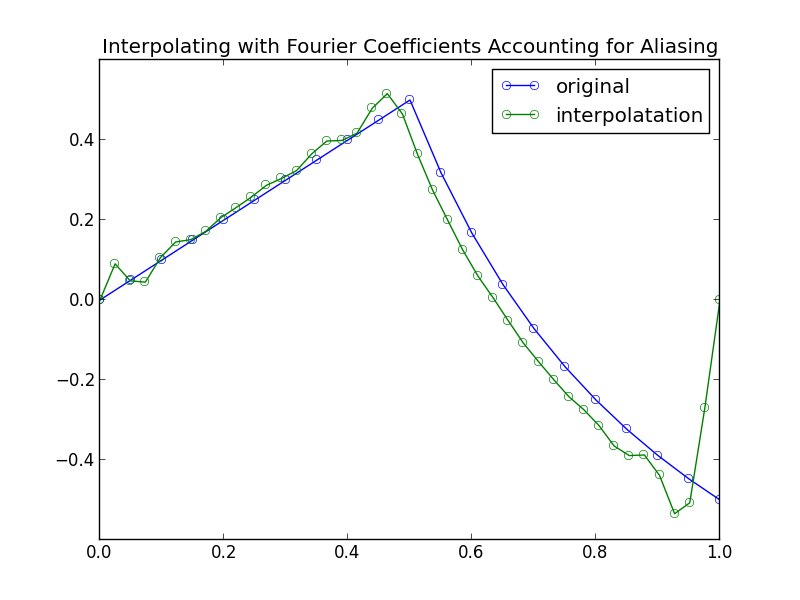
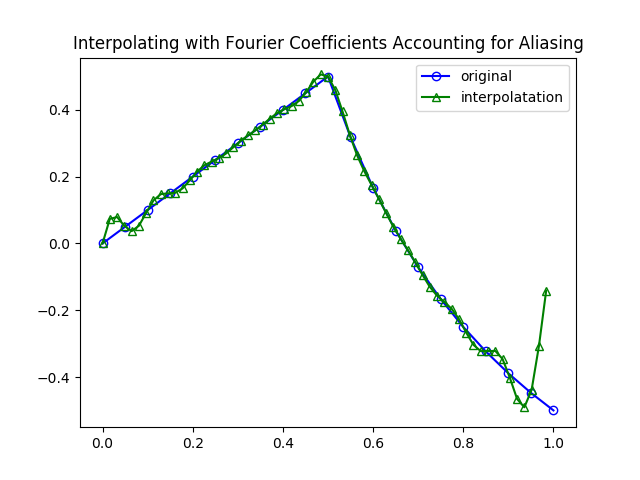
fix Fourier interp post

diff --git a/scripts/int_fourier.py b/scripts/int_fourier.py
@@ -42,9 +42,9 @@ def my_correct_slow_ifft_interp(F,t):
     N = len(F)
     f = zeros(len(t), dtype=complex)
     for n in range(len(t)):
-        for k in range(N/2):
+        for k in range(int(N/2)):
             f[n] += F[k]*e**(2.0*pi*i*k*t[n])
-        for k in range(N/2,N):
+        for k in range(int(N/2),N):
             f[n] += F[k]*e**(-2.0*pi*i*(N-k)*t[n])
     return (1.0/N)*f
     
@@ -52,10 +52,12 @@ if __name__ == "__main__":
     # Sample measurements
     ts = linspace(0,1,num=21)
     f = zeros(len(ts))
-    f[0:len(ts)/2] = ts[0:len(ts)/2]
-    # f[len(ts)/2:] = e**-ts[len(ts)/2:] + 0.5 - e**-0.5
-    f[len(ts)/2:] = 1.0/ts[len(ts)/2:] - 1.5
-#     f = ts*(ts-1)
+    hf = int(len(ts)/2)
+    f[0:hf] = ts[0:hf]
+    #f[hf:] = e**-ts[hf:] + 0.5 - e**-0.5
+    f[hf:] = 1.0/ts[hf:] - 1.5
+    #f = ts*(ts-1)
+    #f = sin(ts*(2.*pi)) + cos(ts*(2.*pi))#-1.0*ts**2#exp(ts)
     
     F = fftshift(fft(f))
     F_unshifted = fft(f)
@@ -65,7 +67,7 @@ if __name__ == "__main__":
     # this includes F^-1{F(f)} for now
     figure(1)
     plot(ts,f, 'bo-',markerfacecolor='none', mec='blue')
-    ylim(-0.6,0.6)
+    #ylim(-0.6,0.6)
     title("Original Function")
     
     figure(2)
@@ -80,14 +82,14 @@ if __name__ == "__main__":
     
     figure(3)
     plot(ts,ff)
-    ylim(-0.6,0.6)
+    #ylim(-0.6,0.6)
     title("Getting Back The Original")
     
     # now interpolate
     # new timestamps, m samples between former samples. 
     Nf = len(ts)
     
-    t = linspace(0,1,num=len(ts)*2)
+    t = linspace(0,1,num=len(ts)*3)
     
     Fs = my_slow_fft(f)
     fm = my_slow_ifft(Fs)
@@ -104,24 +106,27 @@ if __name__ == "__main__":
     figure(5)
     plot(ts,f, 'bo-',markerfacecolor='none', mec='blue')
     plot(ts,fm,'g^-',markerfacecolor='none', mec='green')
-    ylim(-0.6,0.6)
+    #ylim(-0.6,0.6)
     title("Original Using My Inverse")
     
+    figure(500)
+    plot(ts,f, 'bo-',markerfacecolor='none', mec='blue')
+    plot(ts[:-1],my_correct_slow_ifft_interp(fft(f[:-1]),ts[:-1]),'g^-',markerfacecolor='none', mec='green')
+    #ylim(-0.6,0.6)
+    title("Original Using My Inverse Interp ")
+	
     figure(6)
     plot(ts,f, 'bo-',markerfacecolor='none', mec='blue')
     plot(t,fwi,'go-',markerfacecolor='none', mec='green')
-    ylim(-0.6,0.6)
+    #ylim(-0.6,0.6)
     legend(('original', 'interpolatation'))
     title("Interpolating with Fourier Coefficients, No Change")
     
     figure(7)
     plot(ts,f,'bo-',markerfacecolor='none', mec='blue')
-    plot(t,fci,'g^-',markerfacecolor='none', mec='green')
-    ylim(-0.6,0.6)
+    plot(t[:-1],my_correct_slow_ifft_interp(fft(f[:-1]),t[:-1]),'g^-',markerfacecolor='none', mec='green')
+    #ylim(-0.6,0.6)
     legend(('original', 'interpolatation'))
     title("Interpolating with Fourier Coefficients Accounting for Aliasing")
     
     show()
-    
-    
-    

diff --git a/_posts/2014-12-04-interpolating-with-Fourier-coefficients.md b/_posts/2014-12-04-interpolating-with-Fourier-coefficients.md
@@ -49,6 +49,12 @@ $$f_n =\frac{1}{N}\left[ \sum_{k=0}^{N/2-1} F_k e^{2 \pi i k t} + \sum_{k= N/2 }
 
 ![plane]({{ site.url }}/assets/fourier-interp/interp-correct.png "Good Fit")
 
-Note that using this formula depends upon the timestamps of the samples being scaled to be between 0 and 1.
+Note that using this formula depends upon the timestamps of the samples being scaled to be between 0 and 1. 
+
+*Edit:* We also require that the Fourier series be computed on all but the final sample of the original signal. The original post did not account for this and the interpolated values were skewed. This results from the Fourier series being periodic, but we were including a jump dicontinuity at the end of our signal. I think adding some zero-padding to the original signal would also correct this issue, but I haven't checked. I have also included a new plot with a truly periodic signal that begins and ends at the same value so that you can see the result without the ugly edge effects.
+
+![plane]({{ site.url }}/assets/fourier-interp/Figure_7.png "Good Fit - Periodic")
 
 You can see the code that generated these plots [here](https://github.com/dantaylor688/dantaylor688.github.io/blob/master/scripts/int_fourier.py).
+
+
